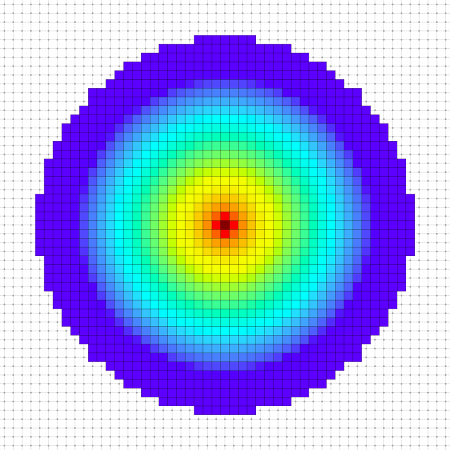
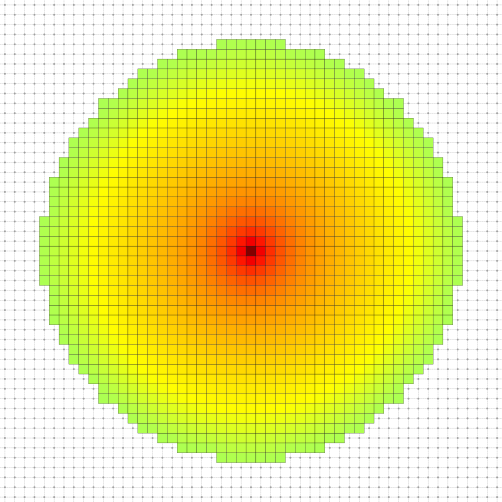
established standing wave example

diff --git a/examples/dec/examplePropagation.cpp b/examples/dec/examplePropagation.cpp
@@ -204,8 +204,8 @@ void propa_2d()
             trace.info() << "lambda = " << lambda << endl;
 
             //! [forced_dalembert_eigen]
-            const Eigen::VectorXd dalembert_eigen_values = laplace_eigen_values.array() - (2*M_PI/lambda)*(2*M_PI/lambda);
-            const Eigen::MatrixXd concentration_to_wave = laplace_eigen_vectors * dalembert_eigen_values.array().inverse().matrix().asDiagonal() * laplace_eigen_vectors.transpose();
+            const Eigen::VectorXd dalembert_eigen_values = (laplace_eigen_values.array() - (2*M_PI/lambda)*(2*M_PI/lambda)).array().inverse();
+            const Eigen::MatrixXd concentration_to_wave = laplace_eigen_vectors * dalembert_eigen_values.asDiagonal() * laplace_eigen_vectors.transpose();
             //! [forced_dalembert_eigen]
 
             //! [forced_wave]
@@ -252,6 +252,7 @@ void propa_2d()
                 ss << "propagation_forced_wave_" << ll << ".svg";
                 Board2D board;
                 board << domain;
+                board << CustomStyle("KForm", new KFormStyle2D(-.5, 1));
                 board << wave;
                 board.saveSVG(ss.str().c_str());
             }
